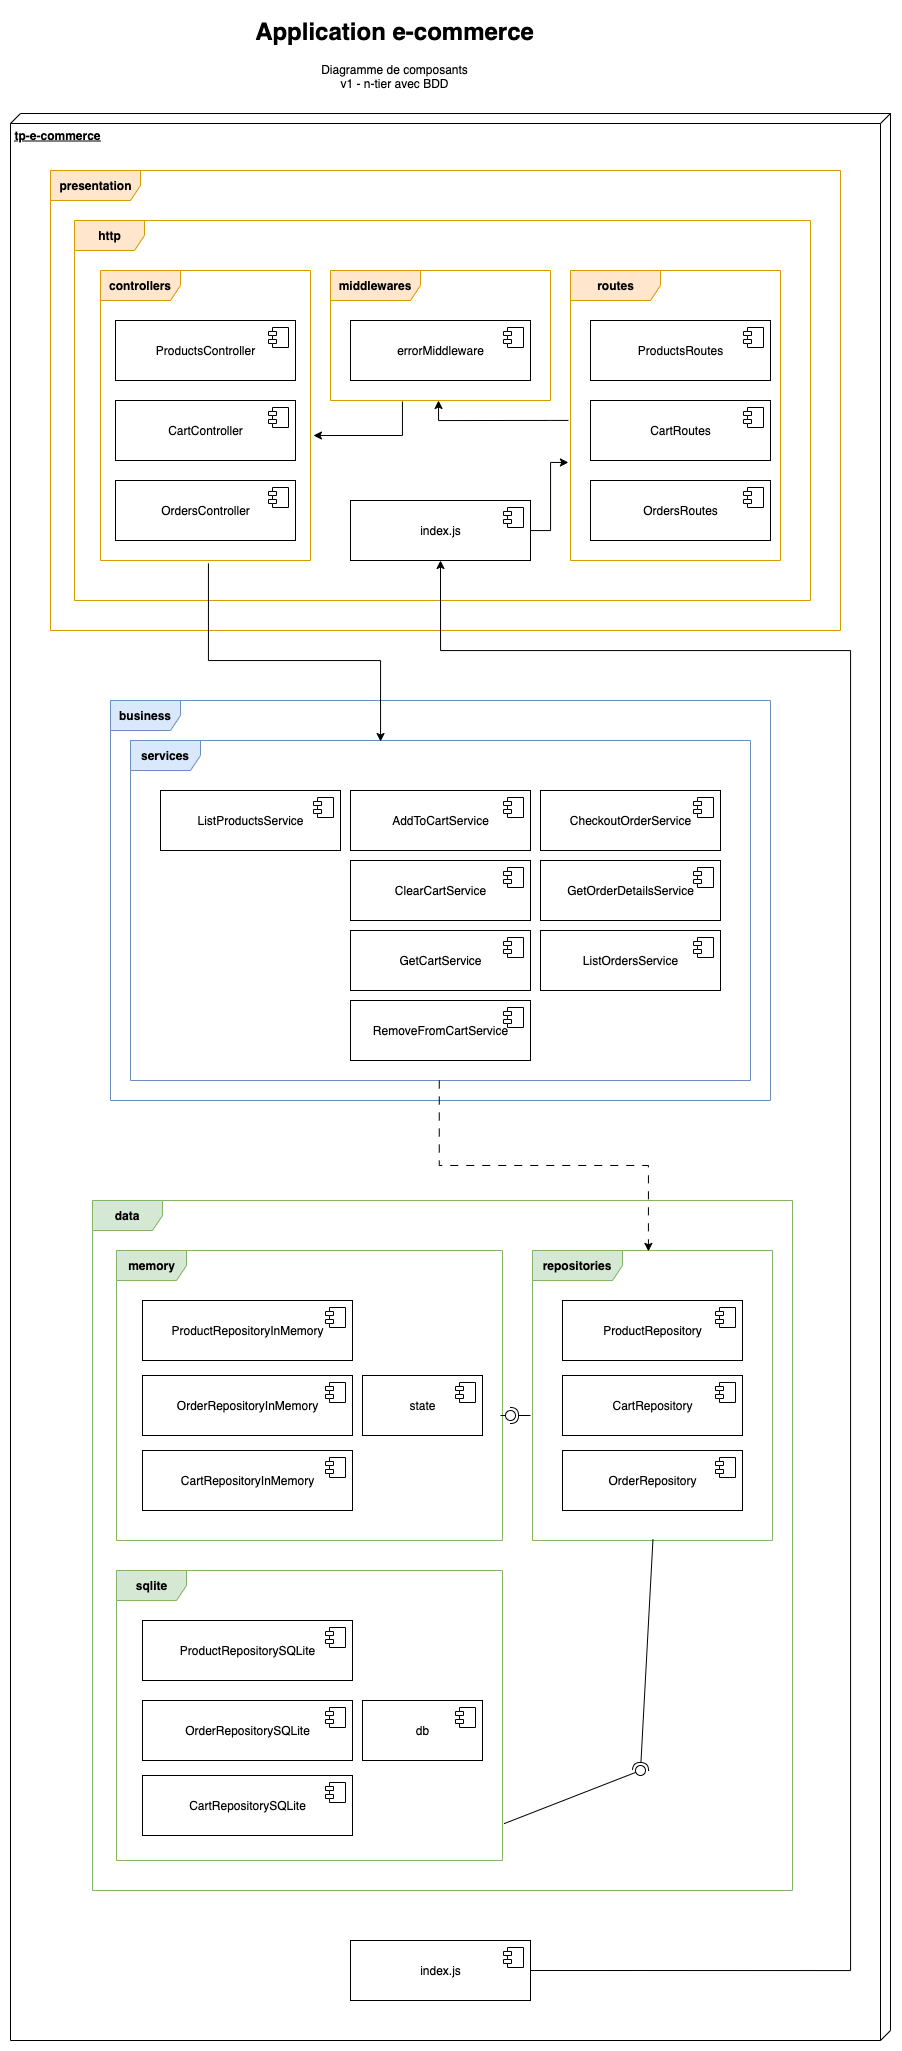
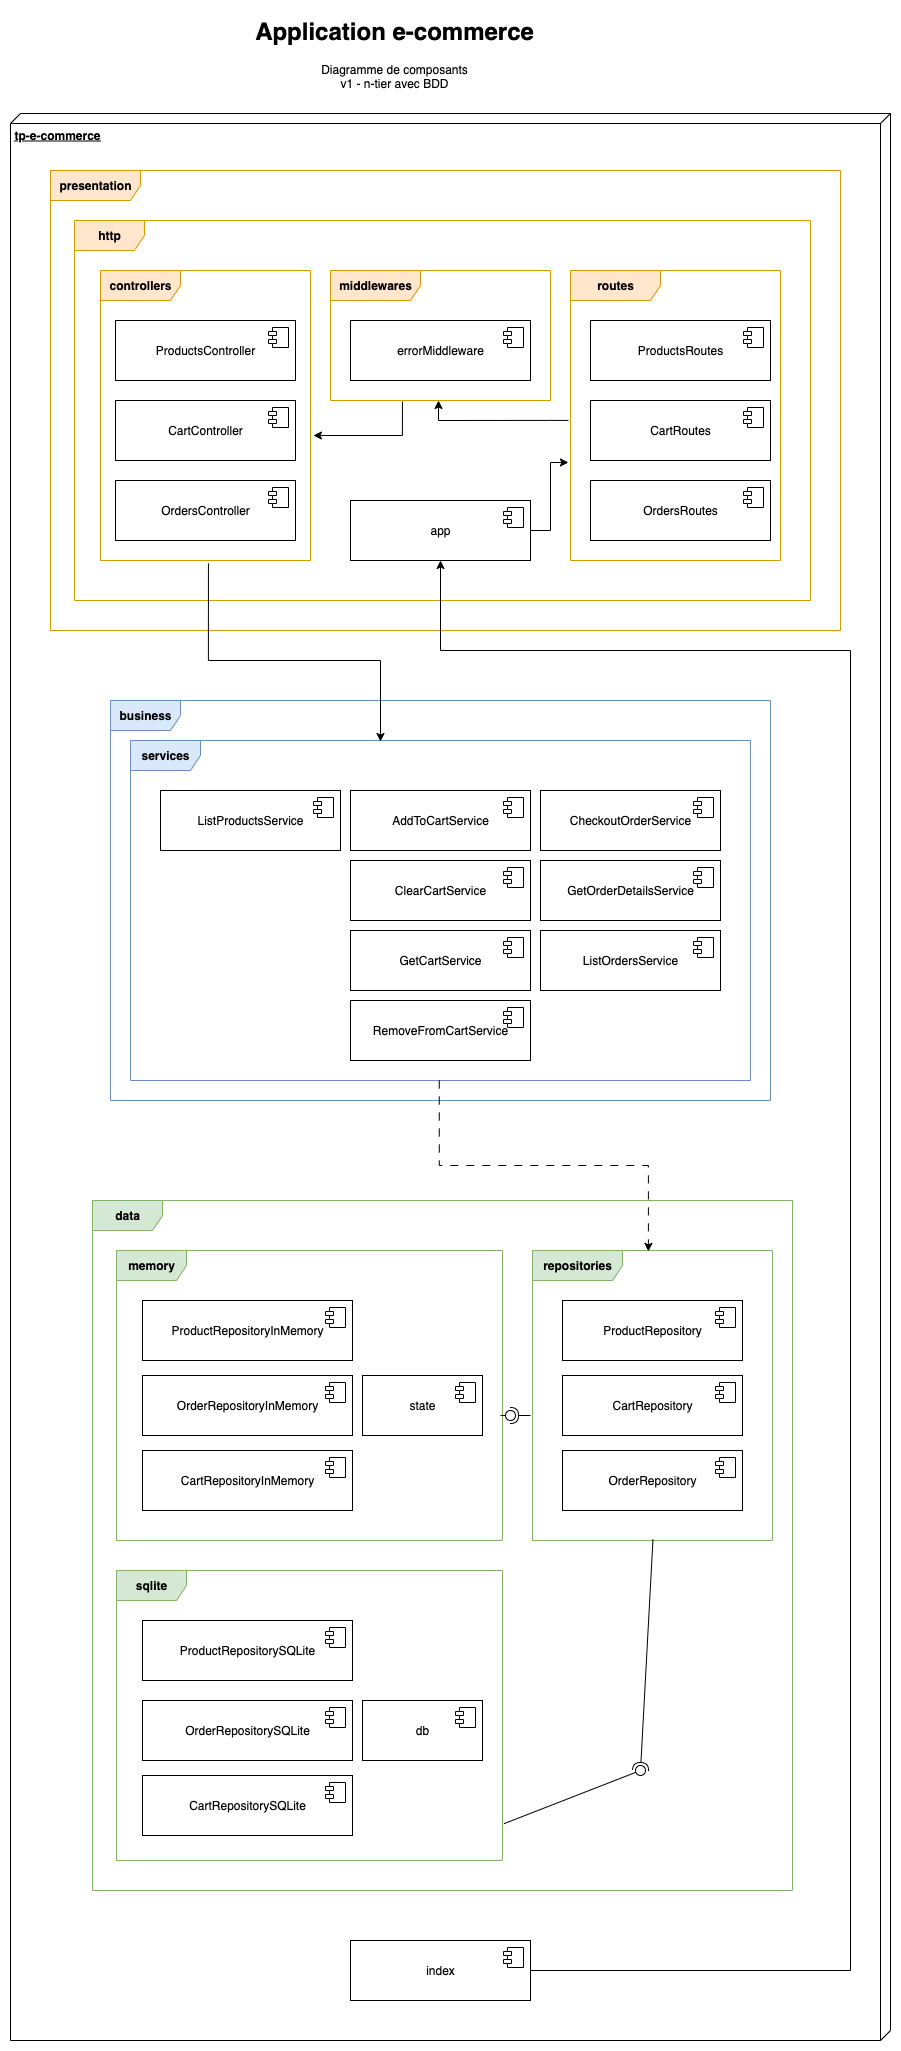
Renamed app.js

diff --git a/__tests__/e2e/invalid_product.e2e.test.js b/__tests__/e2e/invalid_product.e2e.test.js
@@ -1,5 +1,5 @@
 import request from "supertest";
-import app from "../../src/presentation/http/index.js";
+import app from "../../src/presentation/http/app.js";
 import { resetDb } from "../helpers/resetDb.js";
 
 describe("E2E — Tentative ajout produit invalide", () => {

diff --git a/__tests__/functional/products.controller.functional.test.js b/__tests__/functional/products.controller.functional.test.js
@@ -1,5 +1,5 @@
 import request from "supertest";
-import app from "../../src/presentation/http/index.js";
+import app from "../../src/presentation/http/app.js";
 import { resetDb } from "../helpers/resetDb.js";
 
 describe("Functional — ProductsController", () => {

diff --git a/src/index.js b/src/index.js
@@ -1,5 +1,5 @@
 import "dotenv/config";
-import app from "./presentation/http/index.js";
+import app from "./presentation/http/app.js";
 
 const NODE_ENV = process.env.NODE_ENV || "development";
 const PORT = process.env.APP_PORT || process.env.PORT || 3000;

diff --git a/__tests__/functional/orders.functional.test.js b/__tests__/functional/orders.functional.test.js
@@ -1,5 +1,5 @@
 import request from "supertest";
-import app from "../../src/presentation/http/index.js";
+import app from "../../src/presentation/http/app.js";
 import { resetDb } from "../helpers/resetDb.js";
 
 describe("Functional — /orders", () => {

diff --git a/__tests__/functional/cart.functional.test.js b/__tests__/functional/cart.functional.test.js
@@ -1,5 +1,5 @@
 import request from "supertest";
-import app from "../../src/presentation/http/index.js";
+import app from "../../src/presentation/http/app.js";
 import { resetDb } from "../helpers/resetDb.js";
 
 describe("Functional — /cart", () => {

diff --git a/README.md b/README.md
@@ -101,7 +101,7 @@ tp-architecture-ecommerce/
 │  │     │  ├─ cart.routes.js
 │  │     │  └─ orders.routes.js
 │  │     │
-│  │     └─ index.js                          # Crée l'app Express et monte les routes
+│  │     └─ app.js                            # Crée l'app Express et monte les routes
 │  │
 │  └─ index.js                                # Point d’entrée (lance le serveur HTTP)
 │
